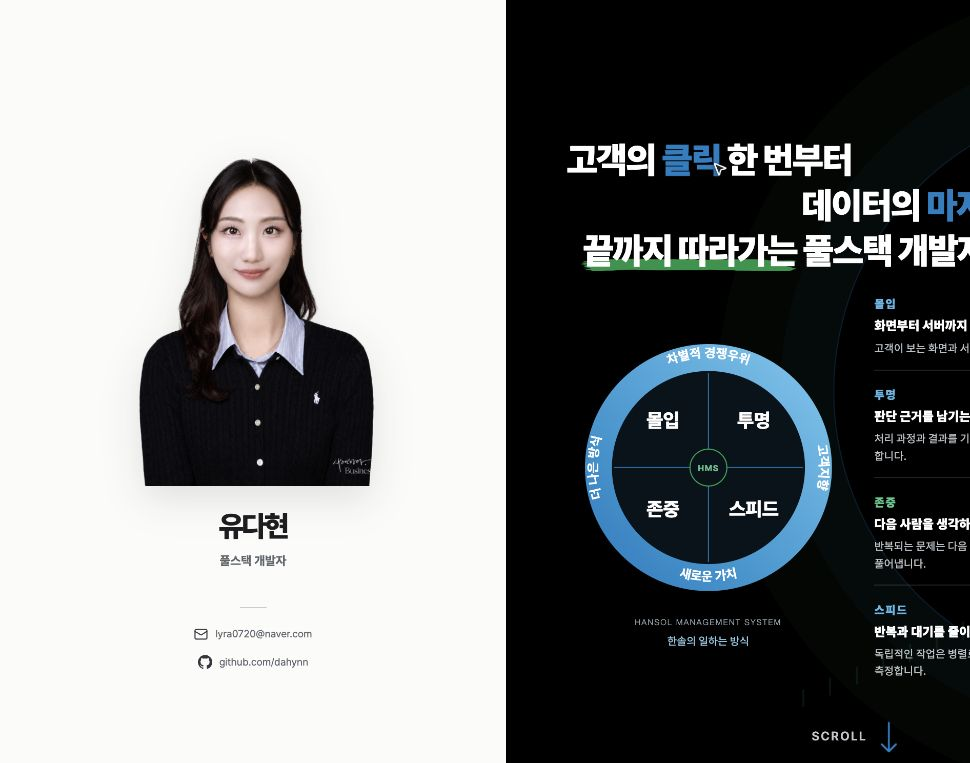
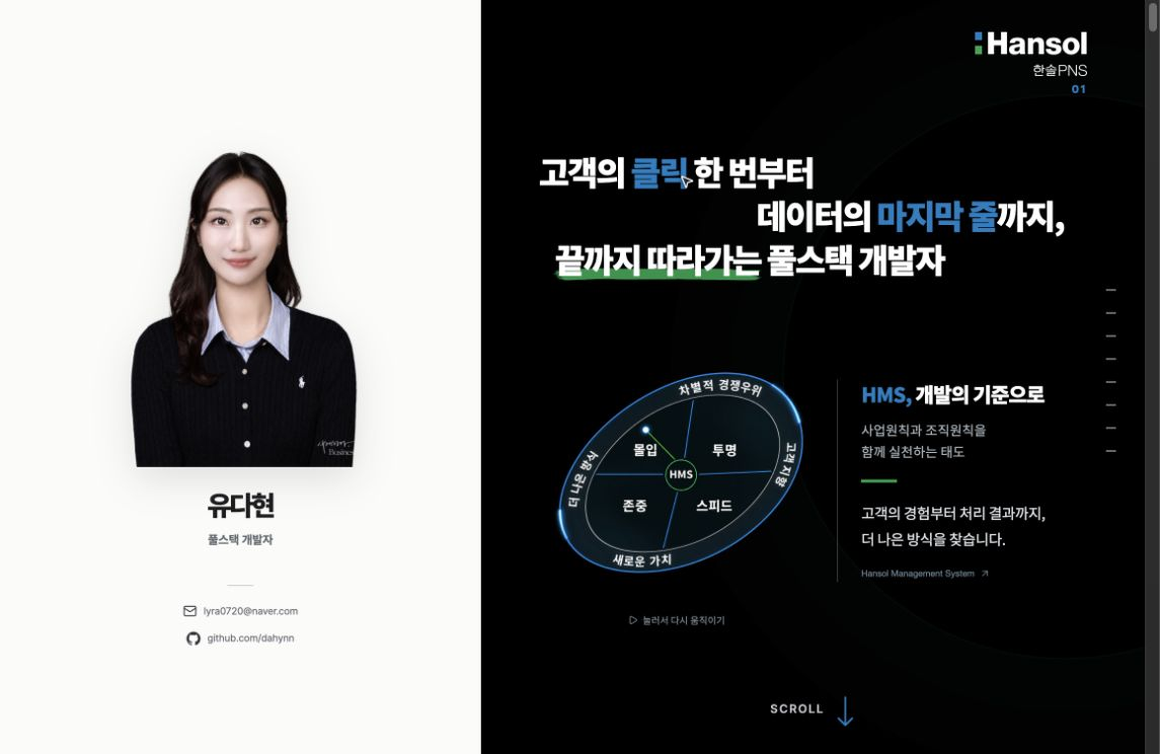
Refine Hansol cover with a rotating HMS diagram

diff --git a/components/PersonalStrengths.tsx b/components/PersonalStrengths.tsx
@@ -1,33 +1,48 @@
-const principles = [
-  { name: '몰입', title: '화면부터 서버까지', description: '고객이 보는 화면과 서버에 남는 처리 결과를 함께 확인합니다.' },
-  { name: '투명', title: '판단 근거를 남기는 개발', description: '처리 과정과 결과를 기록해, 오류의 원인을 다시 확인할 수 있게 합니다.' },
-  { name: '존중', title: '다음 사람을 생각하는 코드', description: '반복되는 문제는 다음 사람이 이해할 수 있는 구조로 풀어냅니다.' },
-  { name: '스피드', title: '반복과 대기를 줄이는 개발', description: '독립적인 작업은 병렬로 처리하고, 응답 시간이 줄었는지 측정합니다.' },
-];
+'use client';
+
+/* oxlint-disable next/no-img-element -- 선택한 HMS 이미지의 투명도와 원본 비율을 정적 Pages에서도 유지합니다. */
+
+import { useState } from 'react';
+import { ArrowUpRight, Pause, Play } from 'lucide-react';
 
 export function PersonalStrengths() {
-  return <section className="hansol-principles" aria-label="한솔의 일하는 방식과 나의 개발 기준">
-    <figure className="principles-wheel">
-      <svg viewBox="0 0 400 400" aria-hidden="true" focusable="false">
-        <defs>
-          <linearGradient id="principles-ring" x1="0" y1="1" x2="1" y2="0"><stop stopColor="#007fc3" /><stop offset="1" stopColor="#6dc5ef" /></linearGradient>
-          <path id="principles-top" d="M 69, 116 A 156,156 0 0,1 331,116" />
-          <path id="principles-right" d="M 337,124 A 156,156 0 0,1 337,276" />
-          <path id="principles-bottom" d="M 79,302 A 156,156 0 0,0 321,302" />
-          <path id="principles-left" d="M 63,276 A 156,156 0 0,1 63,124" />
-        </defs>
-        <circle cx="200" cy="200" r="155" fill="#07131b" stroke="url(#principles-ring)" strokeWidth="38" />
-        <g className="wheel-outer-label"><text><textPath href="#principles-top" startOffset="50%" textAnchor="middle">차별적 경쟁우위</textPath></text><text><textPath href="#principles-right" startOffset="50%" textAnchor="middle">고객지향</textPath></text><text><textPath href="#principles-bottom" startOffset="50%" textAnchor="middle">새로운 가치</textPath></text><text><textPath href="#principles-left" startOffset="50%" textAnchor="middle">더 나은 방식</textPath></text></g>
-        <g stroke="#007fc3" strokeWidth="1.6" opacity=".8"><path d="M200 67v266M67 200h266" /></g>
-        <circle cx="200" cy="200" r="26" fill="#07131b" stroke="#00a650" strokeWidth="1.5" />
-        <text className="wheel-center" x="200" y="205" textAnchor="middle">HMS</text>
-        <g className="wheel-inner-label" textAnchor="middle"><text x="136" y="143">몰입</text><text x="264" y="143">투명</text><text x="136" y="268">존중</text><text x="264" y="268">스피드</text></g>
-      </svg>
-      <figcaption><span>HANSOL MANAGEMENT SYSTEM</span><a href="https://hansol.com/home/recruit/recruit01.jsp" target="_blank" rel="noreferrer">한솔의 일하는 방식</a></figcaption>
-    </figure>
-    <dl className="principles-experience">{principles.map((principle) => <div key={principle.name}>
-      <dt><span>{principle.name}</span><strong>{principle.title}</strong></dt>
-      <dd>{principle.description}</dd>
-    </div>)}</dl>
-  </section>;
+  const [paused, setPaused] = useState(false);
+
+  return (
+    <section className="hms-cover" aria-labelledby="hms-title" data-paused={paused}>
+      <figure className="hms-figure">
+        <button
+          className="hms-diagram-control"
+          type="button"
+          aria-label={paused ? 'HMS 도표 움직임 재생' : 'HMS 도표 움직임 정지'}
+          aria-pressed={paused}
+          aria-describedby="hms-motion-hint"
+          onClick={() => setPaused((value) => !value)}
+        >
+          <img
+            className="hms-diagram-image"
+            src="/assets/hms-orbit.png"
+            width="1254"
+            height="1254"
+            decoding="async"
+            draggable={false}
+            alt="한솔경영체계 HMS. 바깥의 사업원칙: 차별적 경쟁우위, 고객지향, 새로운 가치, 더 나은 방식. 안쪽의 조직원칙: 몰입, 투명, 존중, 스피드."
+          />
+        </button>
+        <figcaption id="hms-motion-hint" className="hms-motion-hint">
+          {paused ? <Play size={10} aria-hidden="true" /> : <Pause size={10} aria-hidden="true" />}
+          {paused ? <span>눌러서 다시 움직이기</span> : <><span className="hms-motion-desktop">마우스를 올리면 잠시 멈춥니다</span><span className="hms-motion-touch">눌러서 움직임 멈추기</span></>}
+        </figcaption>
+      </figure>
+      <div className="hms-caption">
+        <h2 id="hms-title"><span>HMS,</span> 개발의 기준으로</h2>
+        <p className="hms-definition">사업원칙과 조직원칙을<br />함께 실천하는 태도</p>
+        <hr className="hms-rule" />
+        <p className="hms-intent">고객의 경험부터 처리 결과까지,<br />더 나은 방식을 찾습니다.</p>
+        <a className="hms-source" href="https://hansol.com/home/hansol/hansol01.jsp" target="_blank" rel="noreferrer">
+          Hansol Management System <ArrowUpRight size={11} aria-hidden="true" />
+        </a>
+      </div>
+    </section>
+  );
 }

diff --git a/app/globals.css b/app/globals.css
@@ -2149,3 +2149,73 @@ a { color:inherit; text-decoration:none; }
   #introduction.cover-page.is-active .cover-click-word,
   #introduction.cover-page.is-active .cover-click-word svg { animation:none; }
 }
+
+
+/* The selected HMS concept uses a real diagram asset beneath the primary title. */
+#introduction .hms-cover {
+  position:relative;
+  z-index:1;
+  display:grid;
+  grid-template-columns:minmax(0,1.1fr) minmax(0,1fr);
+  align-items:center;
+  gap:clamp(1rem,2vw,1.75rem);
+  margin-top:clamp(3rem,7vh,4.5rem);
+  font-family:'Hansol Website Noto Sans KR',Pretendard,sans-serif;
+}
+.hms-figure { min-width:0; margin:0; }
+.hms-diagram-control {
+  display:block;
+  width:100%;
+  padding:0;
+  border:0;
+  background:transparent;
+  cursor:pointer;
+  perspective:900px;
+  border-radius:50%;
+}
+.hms-diagram-image { display:block; width:100%; height:auto; transform-origin:center; animation:hms-orbit-turn 80s linear 1.5s infinite; animation-play-state:paused; }
+#introduction.is-active .hms-diagram-image { animation-play-state:running; }
+#introduction .hms-diagram-control:hover .hms-diagram-image,
+#introduction .hms-diagram-control:focus-visible .hms-diagram-image { animation-play-state:paused; }
+#introduction .hms-cover[data-paused="true"] .hms-diagram-image { animation:none; transform:none; }
+.hms-diagram-control:focus-visible,.hms-source:focus-visible { outline:2px solid #66b9e5; outline-offset:4px; }
+.hms-motion-hint { display:flex; align-items:center; justify-content:center; gap:.3rem; min-height:1rem; margin-top:.2rem; color:#7f8b93; font-size:.59rem; font-weight:400; }
+.hms-caption { min-width:0; padding-left:clamp(1rem,2vw,1.65rem); border-left:1px solid #ffffff38; }
+.hms-caption h2 { margin:0; color:#fff; font-size:clamp(1rem,1.75vw,1.3rem); font-weight:900; line-height:1.45; letter-spacing:-.04em; word-break:keep-all; }
+.hms-caption h2>span { color:var(--hansol-blue); }
+.hms-definition { margin:.65rem 0 0; color:#a9b4bc; font-size:.83rem; line-height:1.6; word-break:keep-all; }
+.hms-intent { width:100%; margin:0; padding-top:0; color:#e5e9ed; font-size:clamp(.82rem,1.27vw,1rem); line-height:1.75; letter-spacing:-.025em; word-break:keep-all; }
+.hms-source { display:inline-flex; align-items:center; gap:.3rem; margin-top:1rem; color:#6c8695; font:400 .55rem 'Helvetica Neue',Helvetica,Arial,sans-serif; }
+.hms-source:hover { color:#86c5e5; text-decoration:underline; }
+@keyframes hms-orbit-turn { from { transform:rotate(0deg); } to { transform:rotate(360deg); } }
+#introduction .profile-details:has(.hms-cover)::after { display:none; }
+#introduction .profile-details:has(.hms-cover)::before { opacity:.35; }
+@media(min-width:761px) {
+  #introduction .profile-details:has(.hms-cover) { justify-content:center; padding-top:5.5rem; padding-bottom:4rem; }
+}
+@media(min-width:761px) and (max-width:1000px) {
+  #introduction .hms-cover { grid-template-columns:minmax(0,1fr) minmax(0,1fr); gap:.75rem; margin-top:3rem; }
+  .hms-caption { padding-left:.85rem; }
+  .hms-caption h2 { font-size:.9rem; }
+  .hms-definition { font-size:.7rem; }
+  .hms-intent { font-size:.75rem; }
+  .hms-motion-hint { font-size:.5rem; }
+}
+@media(max-width:760px) {
+  #introduction .hms-cover { grid-template-columns:1fr; gap:1.5rem; margin-top:2.5rem; }
+  .hms-figure { width:min(100%,245px); justify-self:center; }
+  .hms-caption { padding-left:1.15rem; margin-inline:.25rem; }
+  .hms-caption h2 { font-size:1.1rem; }
+  .hms-definition { font-size:.8rem; }
+  .hms-intent { font-size:.9rem; }
+  .hms-source { font-size:.63rem; }
+}
+@media(prefers-reduced-motion:reduce) {
+  #introduction .hms-diagram-image { animation:none; transform:none; }
+  .hms-motion-hint { display:none; }
+}
+
+.hms-rule { width:2.25rem; margin:1.1rem 0; border:0; border-top:3px solid var(--hansol-green); }
+
+.hms-motion-touch { display:none; }
+@media(max-width:760px),(hover:none) { .hms-motion-desktop { display:none; } .hms-motion-touch { display:inline; } }
